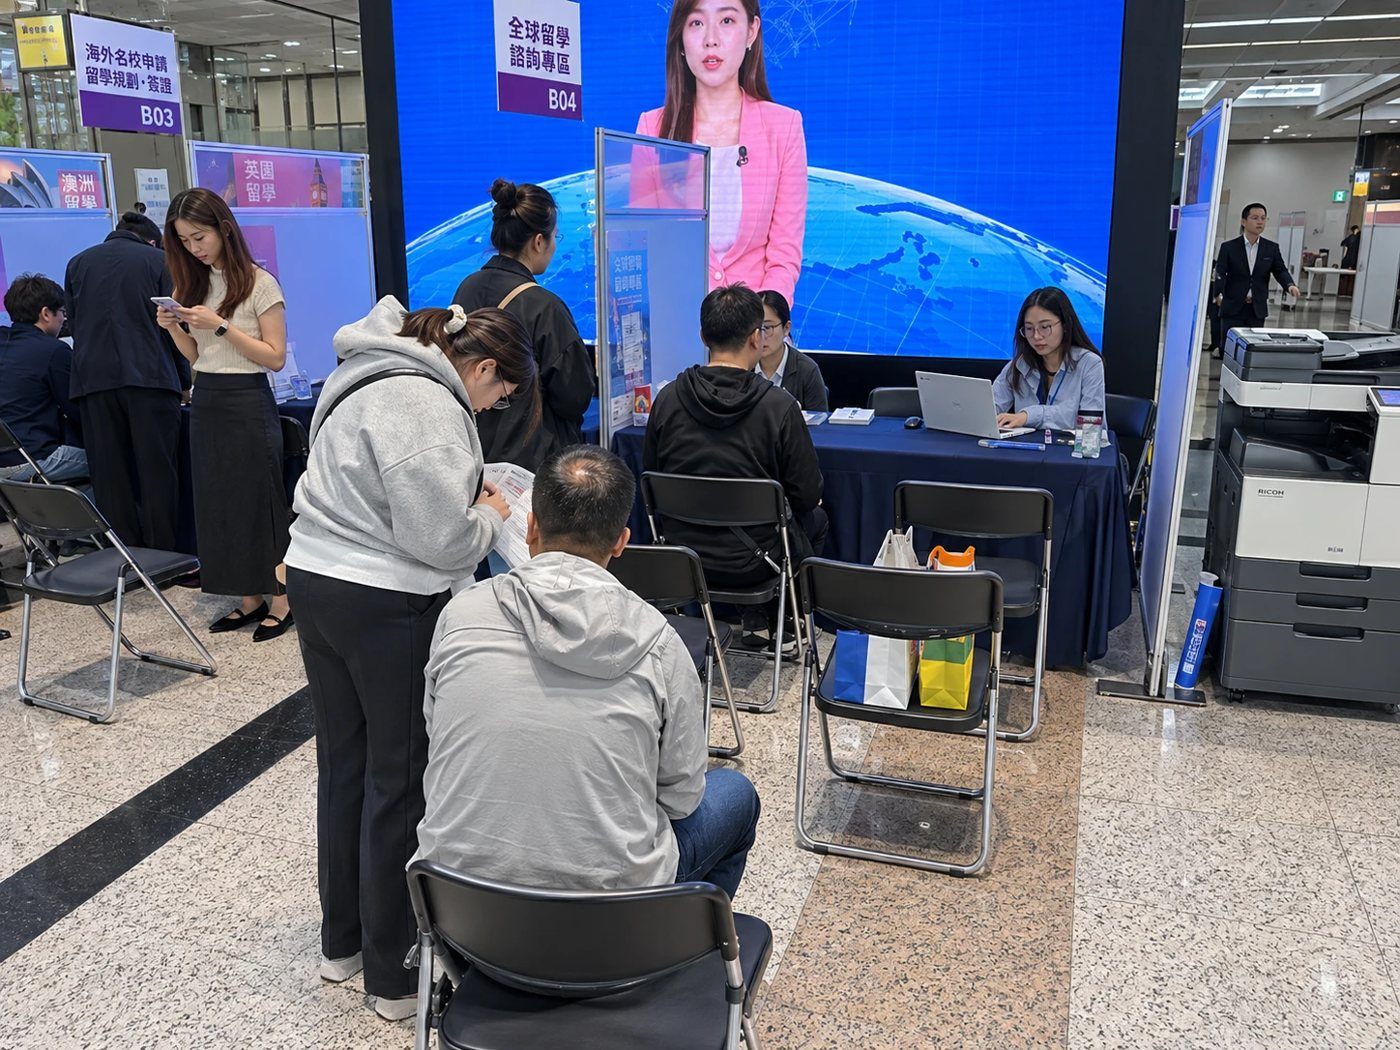
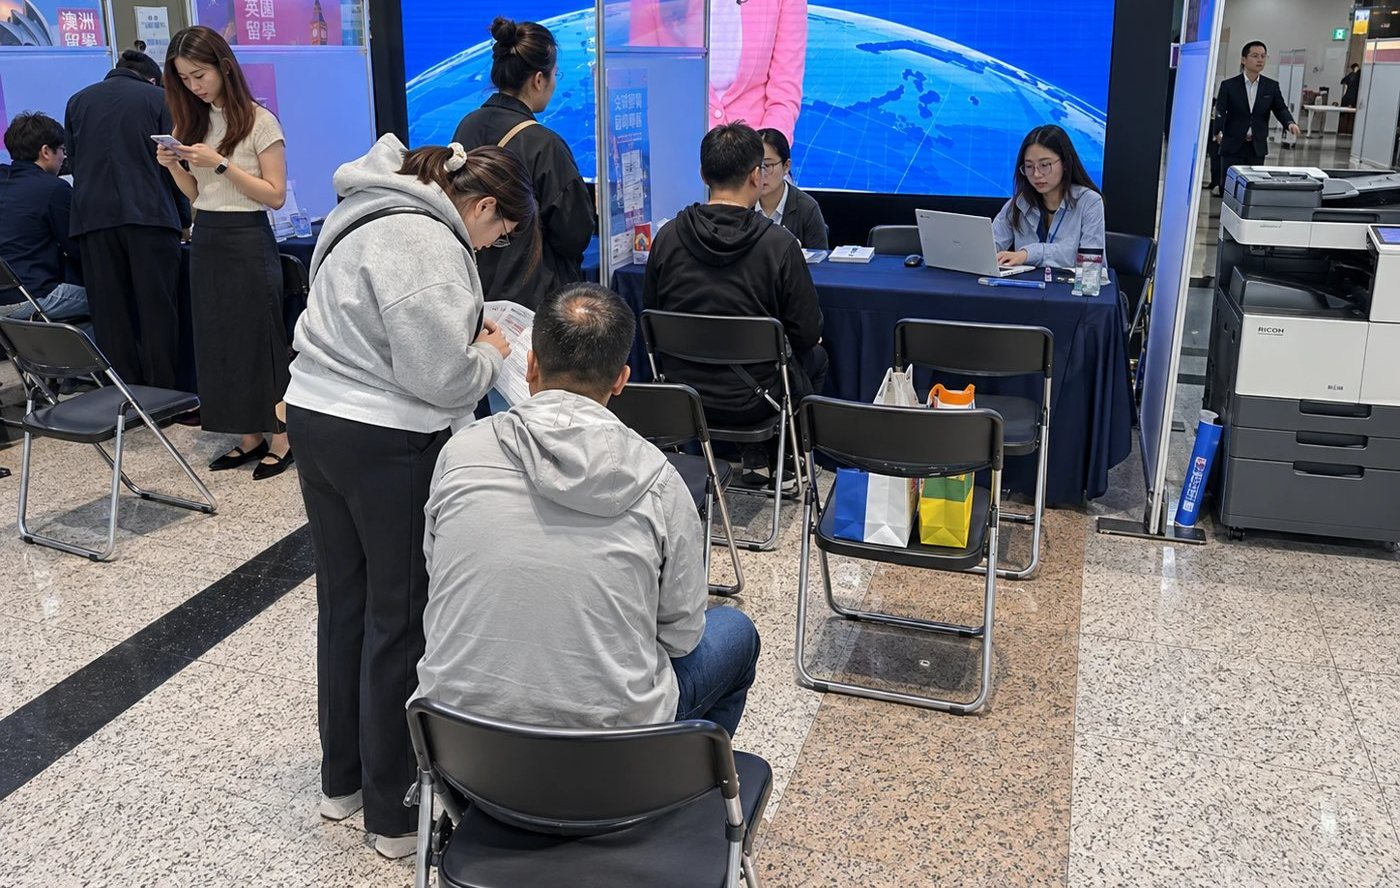
링키지랩 소개: 박람회 STEP 01 = 현장 사진 아래쪽만(부스 표지판 사진 삭제)

diff --git a/linkagelab/index.html b/linkagelab/index.html
@@ -1063,7 +1063,7 @@ body.presenting #history-2026.pop .y26 .g:nth-child(3){transition-delay:.44s}
     <span class="kicker">Job fair</span>
     <h2 class="title">2026년 성남장애인일자리 박람회</h2>
     <div class="fd-flow">
-      <div class="fd-st"><button class="zoom fd-ph fd-x" type="button" aria-label="박람회 부스 사진 크게 보기"><img src="img/fair-booth.jpg" width="1400" height="711" alt="링키지랩 부스" loading="lazy"><img class="fx2" src="img/fair-2026.jpg" width="1400" height="1050" alt="박람회 현장" loading="lazy"></button><div class="fd-t"><i>STEP 01</i><b>부스 운영</b></div></div>
+      <div class="fd-st"><button class="zoom fd-ph" type="button" aria-label="박람회 부스 사진 크게 보기"><img src="img/fair-2026.jpg" width="1400" height="888" alt="박람회 부스 운영 현장" loading="lazy" style="object-position:50% 100%"></button><div class="fd-t"><i>STEP 01</i><b>부스 운영</b></div></div>
       <div class="fd-st"><button class="zoom fd-ph" type="button" aria-label="현장 면접 사진 크게 보기"><img src="img/fair-interview.jpg" width="1400" height="1050" alt="박람회 현장 면접" loading="lazy" style="object-position:50% 60%"></button><div class="fd-t"><i>STEP 02</i><b>현장 면접</b></div></div>
       <div class="fd-st k"><button class="zoom fd-ph fd-kit" type="button" aria-label="채용 키트 첫 화면 크게 보기"><img src="img/kit-step1.jpg" width="1180" height="750" alt="채용 키트 첫 화면" loading="lazy"></button><div class="fd-t"><i>STEP 03</i><b>면접 채용 키트</b></div></div>
     </div>
